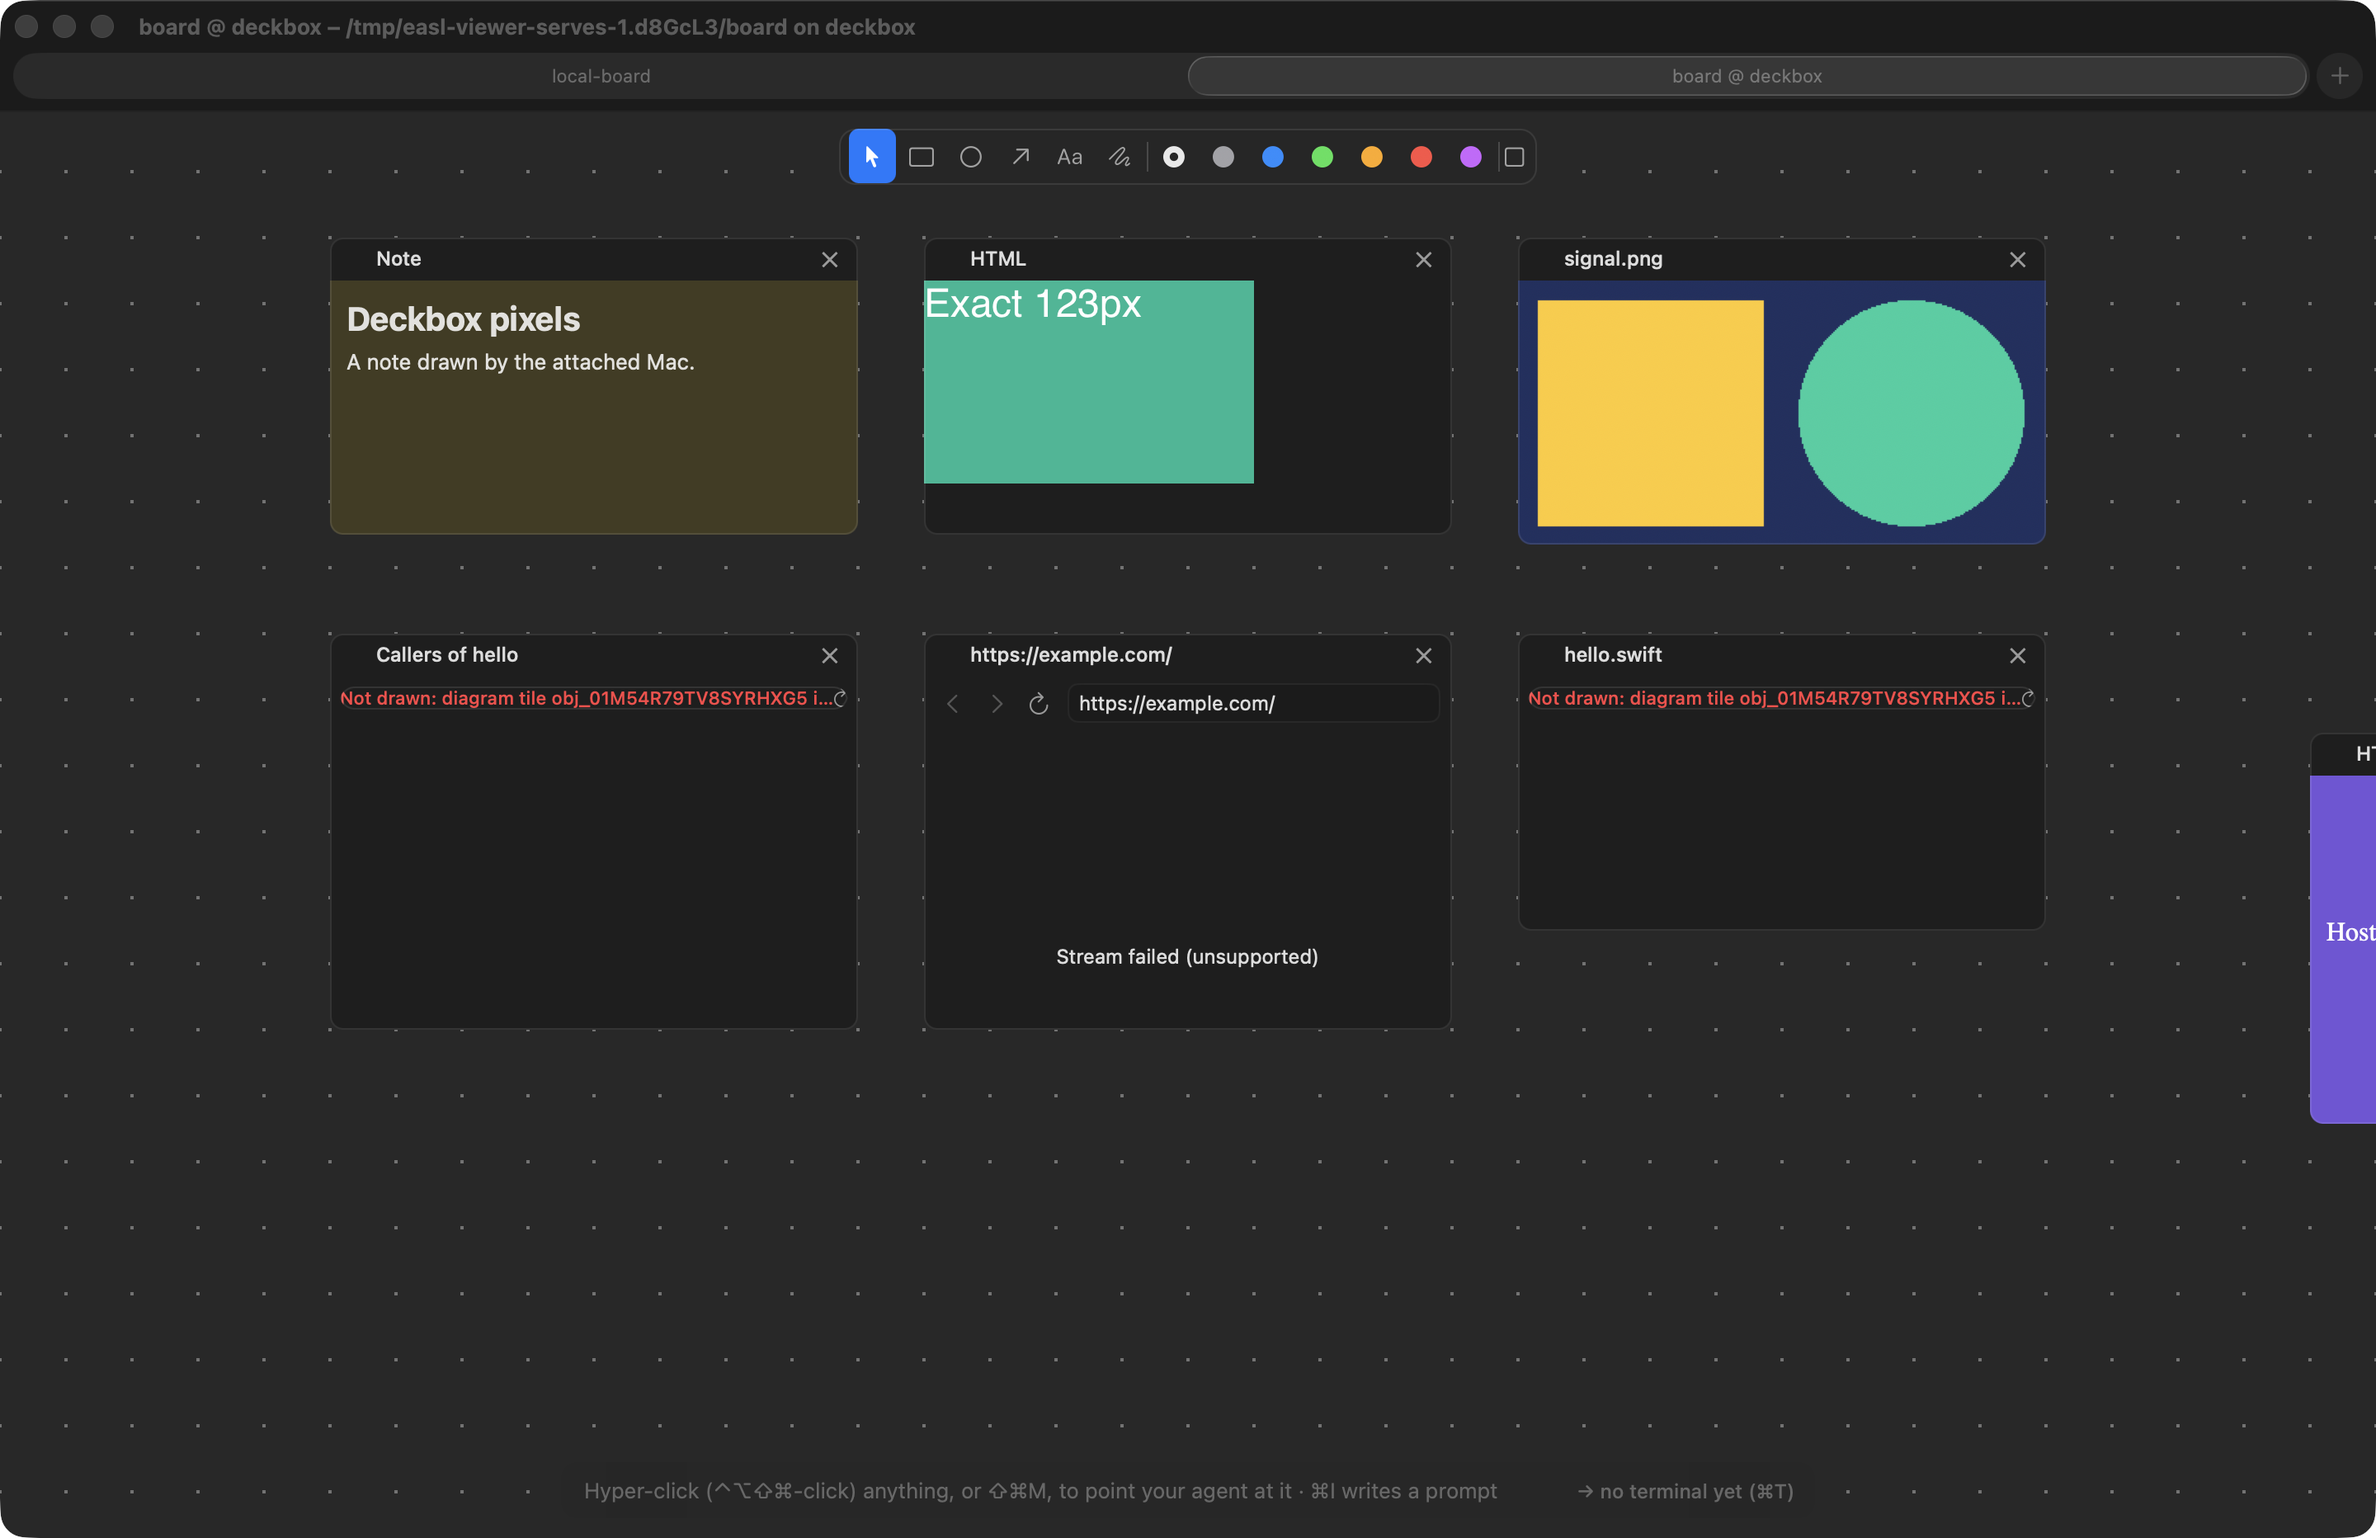
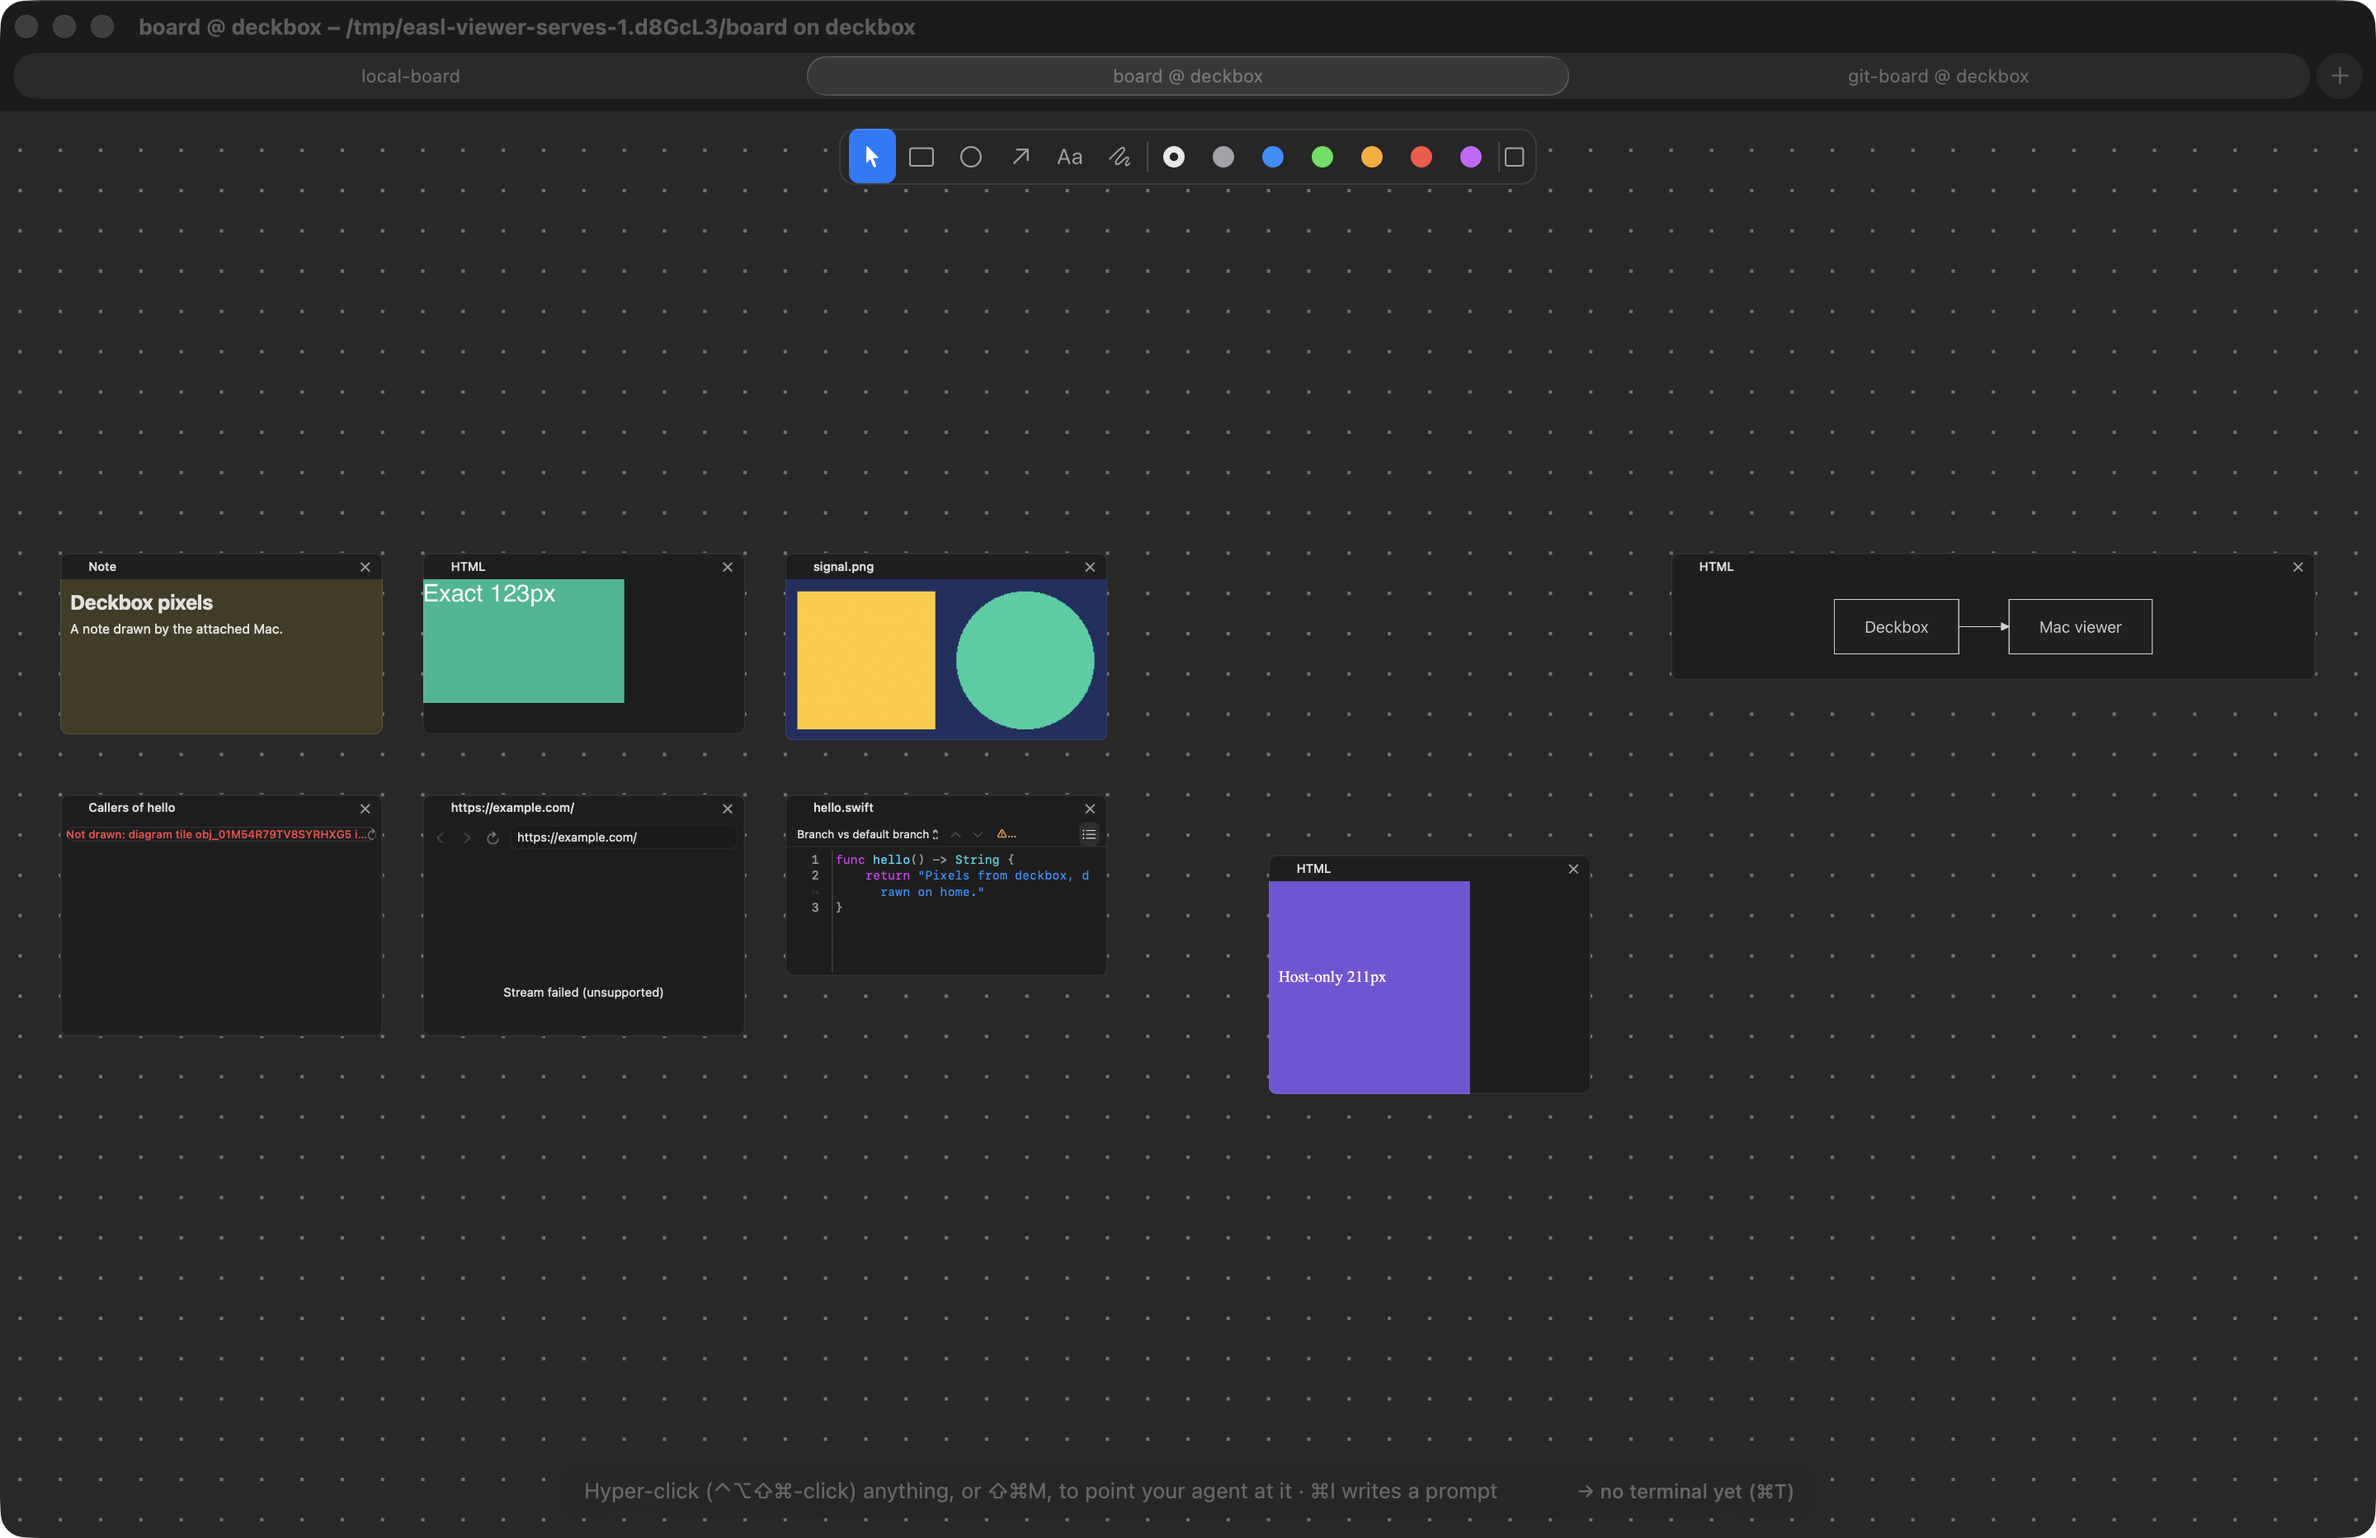
docs: prove background code and changes renders after main merge

diff --git a/docs/design.md b/docs/design.md
@@ -300,9 +300,11 @@ Image captures from short unfocused development sessions show an [easld image be
 
 Viewer-served calls against a scratch easld produced these inline PNGs: [note](media/remote-viewer-note.png), [HTML](media/remote-viewer-html.png), [image](media/remote-viewer-image.png), and [HTML loading a host-only SVG](media/remote-viewer-host-image-html.png). The [native viewer capture](media/remote-viewer-window.png) shows the same tiles; its remaining host pictures and streamed browser are deliberately unavailable on easld. A 123 px HTML body measured and fitted to 320×149 including chrome; a host-only 211 px SVG measured and fitted to 320×237 after its image loaded.
 
-The note, HTML and image renders and exact measurement also succeeded after native window close, with `view.get.visible: false` and every app window offscreen. Turning background attachment off removed the client while the app stayed running; re-enabling restored it asynchronously, and quitting removed it again. Both detached states returned `unavailable` for render, HTML measure and fitted HTML creation. Across 1,542 desktop samples over 925.65 seconds, display 1's visible Space UUID and front application (`SecurityAgent`) never changed. Captures were streamed by window ID to the daemon machine, not written on the viewer.
+The note, HTML and image renders and exact measurement also succeeded after native window close, with `view.get.visible: false` and every app window offscreen. Turning background attachment off removed the client while the app stayed running; re-enabling restored it asynchronously, and quitting removed it again. Both detached states returned `unavailable` for render, HTML measure and fitted HTML creation. Across 5,008 desktop samples in two GUI verification sessions, display 1's visible Space UUID and front application (`SecurityAgent`) never changed. Captures were streamed by window ID to the daemon machine, not written on the viewer.
 
 Readiness probes covered a lazy host image below a 3,000 px spacer (320×3237), a longer page capped at 4000 px, and a font first used by an asynchronous code excerpt. The delayed font now waits for delivery and measures the same 843 px height as its immediate-font control, rather than returning the fallback's 777 px. A [settled Mermaid render](media/remote-viewer-mermaid.png) is 640×126. A [failed reopen-list save](media/remote-viewer-close-refusal.png) leaves its native tab attached; repairing write access lets the same close detach it.
+
+After the host-git drawing providers landed, the same deckbox CLI also returned inline [code](media/remote-viewer-code.png) (520×260) and [changes](media/remote-viewer-changes.png) (600×400) from an isolated host repository. Code rendering still succeeds after native window close; it no longer depends on a host picture.
 
 ### Open Remote
 
